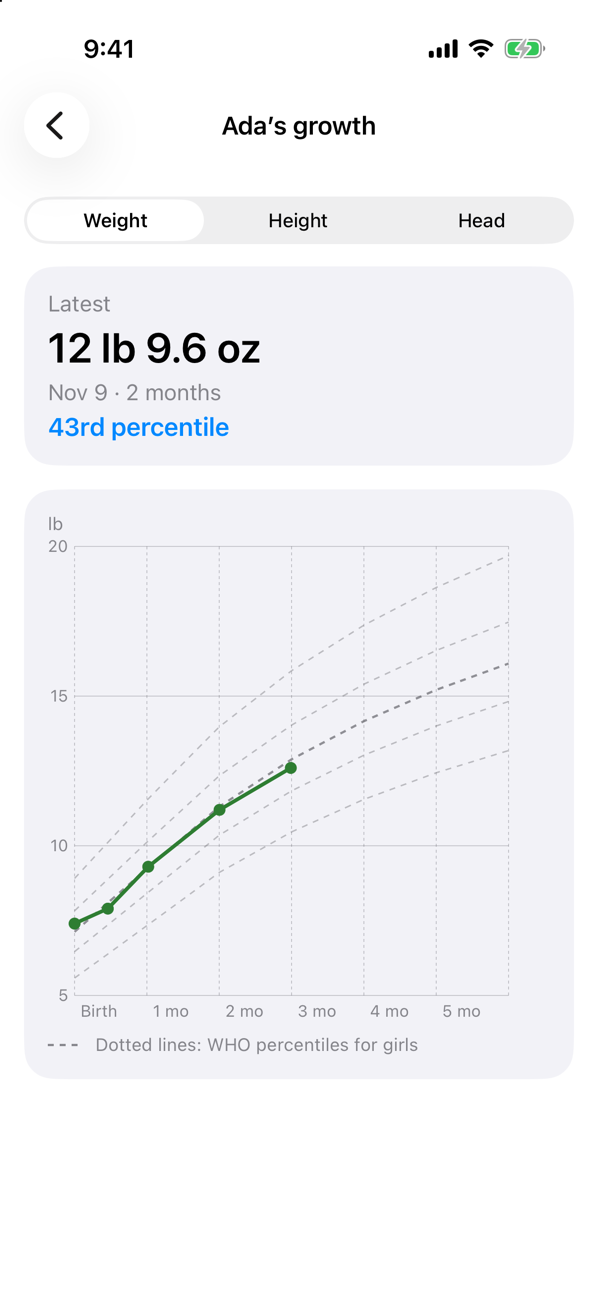
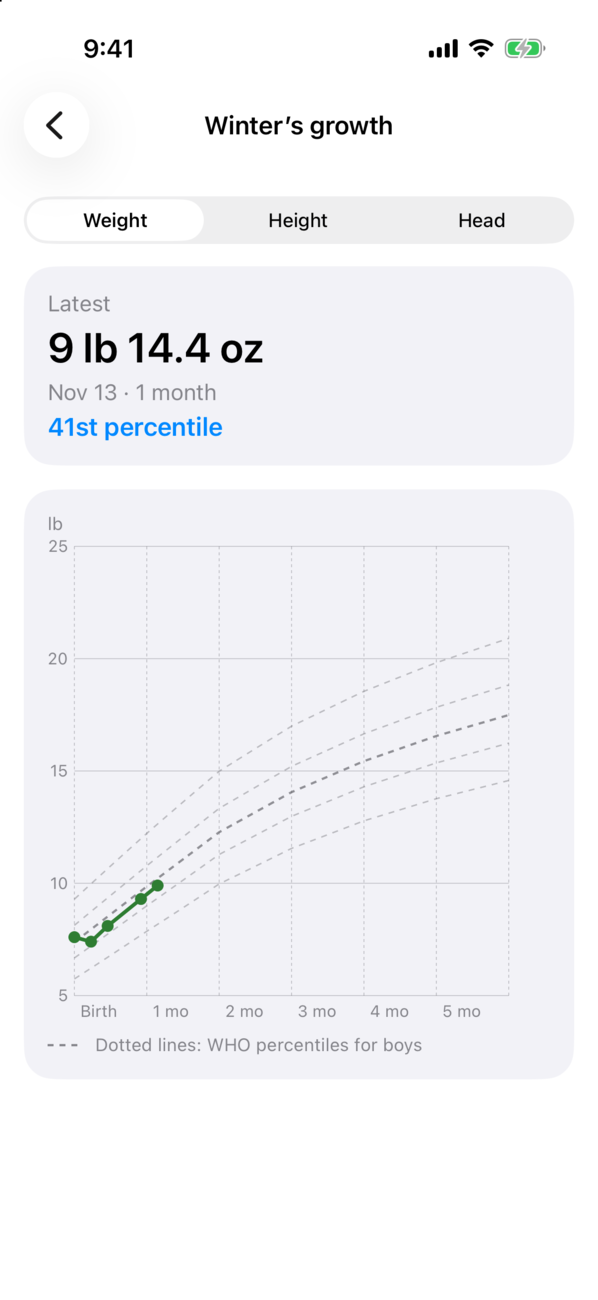
Add FAQ screenshots and retake the site's screenshots with Winter (#4)
* Add app screenshots and describe what Totly does today

The home page was a short feature list from before most of the app
existed. It now opens with a hero and walks through logging, Live
Activities, widgets and the Watch app, Reports, the next-nap suggestion
and Sleep tab, growth charts and the Food tab, each beside a screenshot
from the iOS app. The FAQ gains questions on tracked activities, the nap
suggestion, timers outside the app, the widget and Watch app, and
real-time sync.

* Add screenshots to the FAQ and update the delete account answer

The FAQ answers that point at a screen now show it: Customize home for
the activities you can track, the Lock Screen Live Activity, More and
Manage family for sharing, and Profile for deleting the account.

Deleting the account moved into the app (More, then your profile, then
Delete account), so the answer describes that and keeps emailing support
for people who can't sign in. Real email addresses in the signed-in
screenshots are replaced with example.com addresses.

* Retake the site's screenshots with Winter and a profile photo

The home page now shows Winter, a 5-week-old with a photo, across Home,
the nursing timer, the Lock Screen Live Activity, Reports, the Sleep tab
and the growth chart. Winter's logs are demo data on an offline copy of
the baby, so the shots show a full week.

The FAQ's More, Manage family and Profile shots are retaken with a
profile photo, and the sharing answer gains the invite in Notifications.
[…]

diff --git a/docs/stylesheets/extra.css b/docs/stylesheets/extra.css
@@ -117,3 +117,33 @@
     max-width: 200px;
   }
 }
+
+/* FAQ: screenshots under an answer, alone or side by side */
+.md-typeset img.faq-shot {
+  display: block;
+  width: 220px;
+  height: auto;
+  margin: 1rem 0 1.5rem;
+  border-radius: 24px;
+  border: 1px solid rgba(0, 0, 0, 0.08);
+  box-shadow: 0 8px 24px rgba(0, 0, 0, 0.12);
+}
+
+.faq-shots p {
+  display: flex;
+  flex-wrap: wrap;
+  align-items: flex-start;
+  gap: 1rem;
+  margin: 0;
+}
+
+.faq-shots img.faq-shot {
+  margin: 1rem 0 1.5rem;
+}
+
+@media screen and (max-width: 44.9375em) {
+  .faq-shots img.faq-shot {
+    width: calc(50% - 0.5rem);
+    max-width: 220px;
+  }
+}

diff --git a/docs/faq.md b/docs/faq.md
@@ -6,13 +6,17 @@
 Totly is a baby tracker for logging sleep, nursing, bottles, diapers, growth and medicine, and for sharing those logs with your family. It also suggests when your baby's next nap is due, charts growth against the WHO percentiles, and has guides to sleep and to starting solids.
 
 ### Which activities can I track?
-Sleep, nursing, bottles, diapers, growth (weight, height and head circumference) and medicine doses. Contractions can be tracked too, for before the baby arrives — turn the tile on from **Customize** on the Home screen. Every entry can have a note.
+Sleep, nursing, bottles, diapers, growth (weight, height and head circumference) and medicine doses. Contractions can be tracked too, for before the baby arrives — turn the tile on from **Customize** at the bottom of the Home screen, where you can also reorder or hide tiles. Every entry can have a note.
+
+![The Customize home sheet with a switch and drag handle for each activity](assets/screenshots/customize.png){ .faq-shot loading=lazy }
 
 ### How does the next nap suggestion work?
 Totly looks at when your baby last woke up and the wake windows typical for their age, and shows when to put them down next on the Home screen. It's a starting point, not a rule — follow your baby's sleepy cues too.
 
 ### Can I see a running timer without opening the app?
 Yes. On iPhone, running sleep and nursing timers show on the Lock Screen and in the Dynamic Island as Live Activities. On Android they show as an ongoing notification. Tap either to go back to the timer.
+
+![A running nursing timer as a Live Activity on the iPhone Lock Screen](assets/screenshots/live-activity.jpg){ .faq-shot loading=lazy }
 
 ### Is there a widget or Apple Watch app?
 Yes. The **Last Activity** home screen widget, on iOS and Android, shows what was logged last. The Apple Watch app lets you log activities and see recent entries from your wrist.
@@ -29,18 +33,28 @@ No. You can track your baby on a single device without signing in. Create an acc
 ## Family Sharing
 
 ### How do I share my baby with a partner or caregiver?
-Sign in, then go to **More** → **Manage Family**, pick your baby, start a family and invite members by email. They'll get an email and see the invite under **More** → **Notifications**.
+Sign in, then go to **More** → **Manage family**, pick your baby, start a family and invite members by email. They'll get an email and see the invite under **More** → **Notifications**, where they can accept it.
+
+<div class="faq-shots" markdown>
+![The More tab with the profile, Manage family and Notifications](assets/screenshots/more-family.png){ .faq-shot loading=lazy }
+![Manage family with the owner, an invited member and the invite by email form](assets/screenshots/manage-family.png){ .faq-shot loading=lazy }
+![An invite to join Winter's family in Notifications, with Decline and Accept](assets/screenshots/notifications.png){ .faq-shot loading=lazy }
+</div>
 
 ### Do changes show up on everyone's phone?
 Yes. While you're signed in, entries sync in real time, so a timer started on one phone shows on the others right away.
 
 ### How do I remove someone from my family?
-Go to **More** → **Manage Family**, pick your baby, and tap **Remove** next to the member. To leave a family yourself, tap **Leave family**.
+Go to **More** → **Manage family**, pick your baby, and tap **Remove** next to the member. To take back an invite that hasn't been accepted yet, tap **Cancel invite**. To leave a family yourself, tap **Leave family**.
 
 ## Account
 
 ### How do I delete my account?
-Email **support@plusmobileapps.com** from the address you signed up with and ask us to delete your account. We'll permanently delete your account, your profile and all babies, logs and photos you've added.
+Go to **More**, tap your profile at the top, then tap **Delete account** and type your email to confirm. Your babies with their logs and photos, and the families you own with their babies, are deleted for everyone, and you leave any other families. This can't be undone.
+
+![The Profile screen with the Delete account button](assets/screenshots/manage-profile.png){ .faq-shot loading=lazy }
+
+If you can't sign in anymore, email **support@plusmobileapps.com** from the address you signed up with and we'll delete it for you.
 
 ### What happens to my data when I sign out?
 Signing out uploads any pending changes, then deletes the babies and logs stored on that device. Sign back in to download them again.

diff --git a/docs/index.md b/docs/index.md
@@ -20,7 +20,7 @@ glance, and know when the next nap is coming.
 </div>
 
 <div class="hero-shot" markdown>
-![Totly's Home screen with the next nap suggestion and activity tiles](assets/screenshots/home.png){ .screenshot loading=lazy }
+![Totly's Home screen for Winter, with the back-to-sleep suggestion and activity tiles](assets/screenshots/home.png){ .screenshot loading=lazy }
 </div>
 
 </div>
@@ -121,7 +121,7 @@ measurements in lb and oz or kg, and inches or cm.
 </div>
 
 <div class="feature-shot" markdown>
-![A weight chart plotted against the WHO percentiles, showing the 43rd percentile](assets/screenshots/growth.png){ .screenshot loading=lazy }
+![A weight chart plotted against the WHO percentiles, showing the 41st percentile](assets/screenshots/growth.png){ .screenshot loading=lazy }
 </div>
 
 </div>
